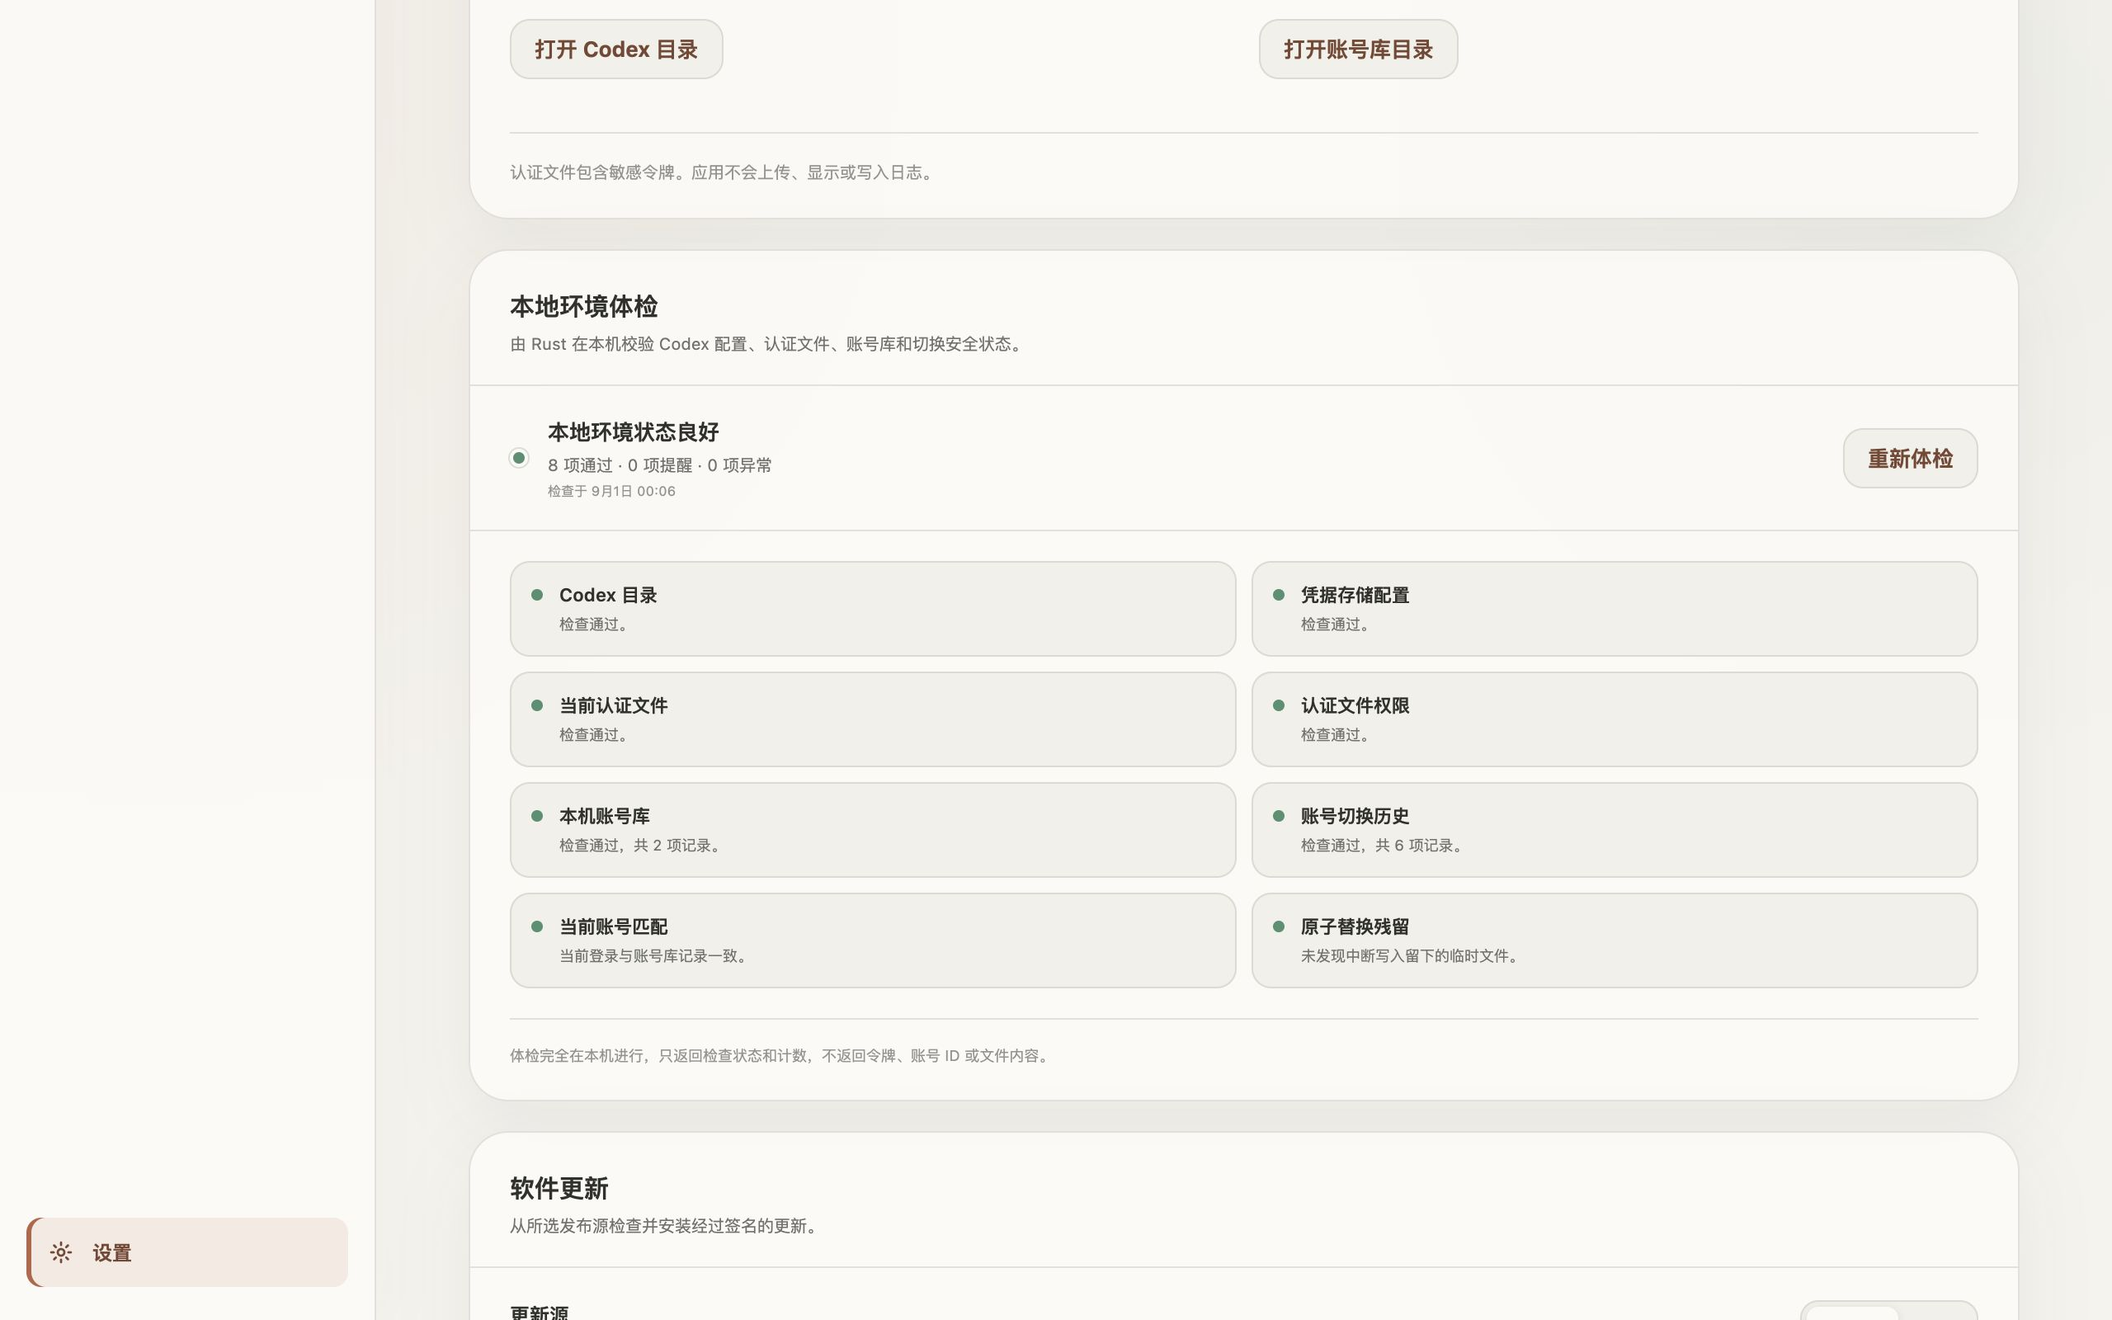
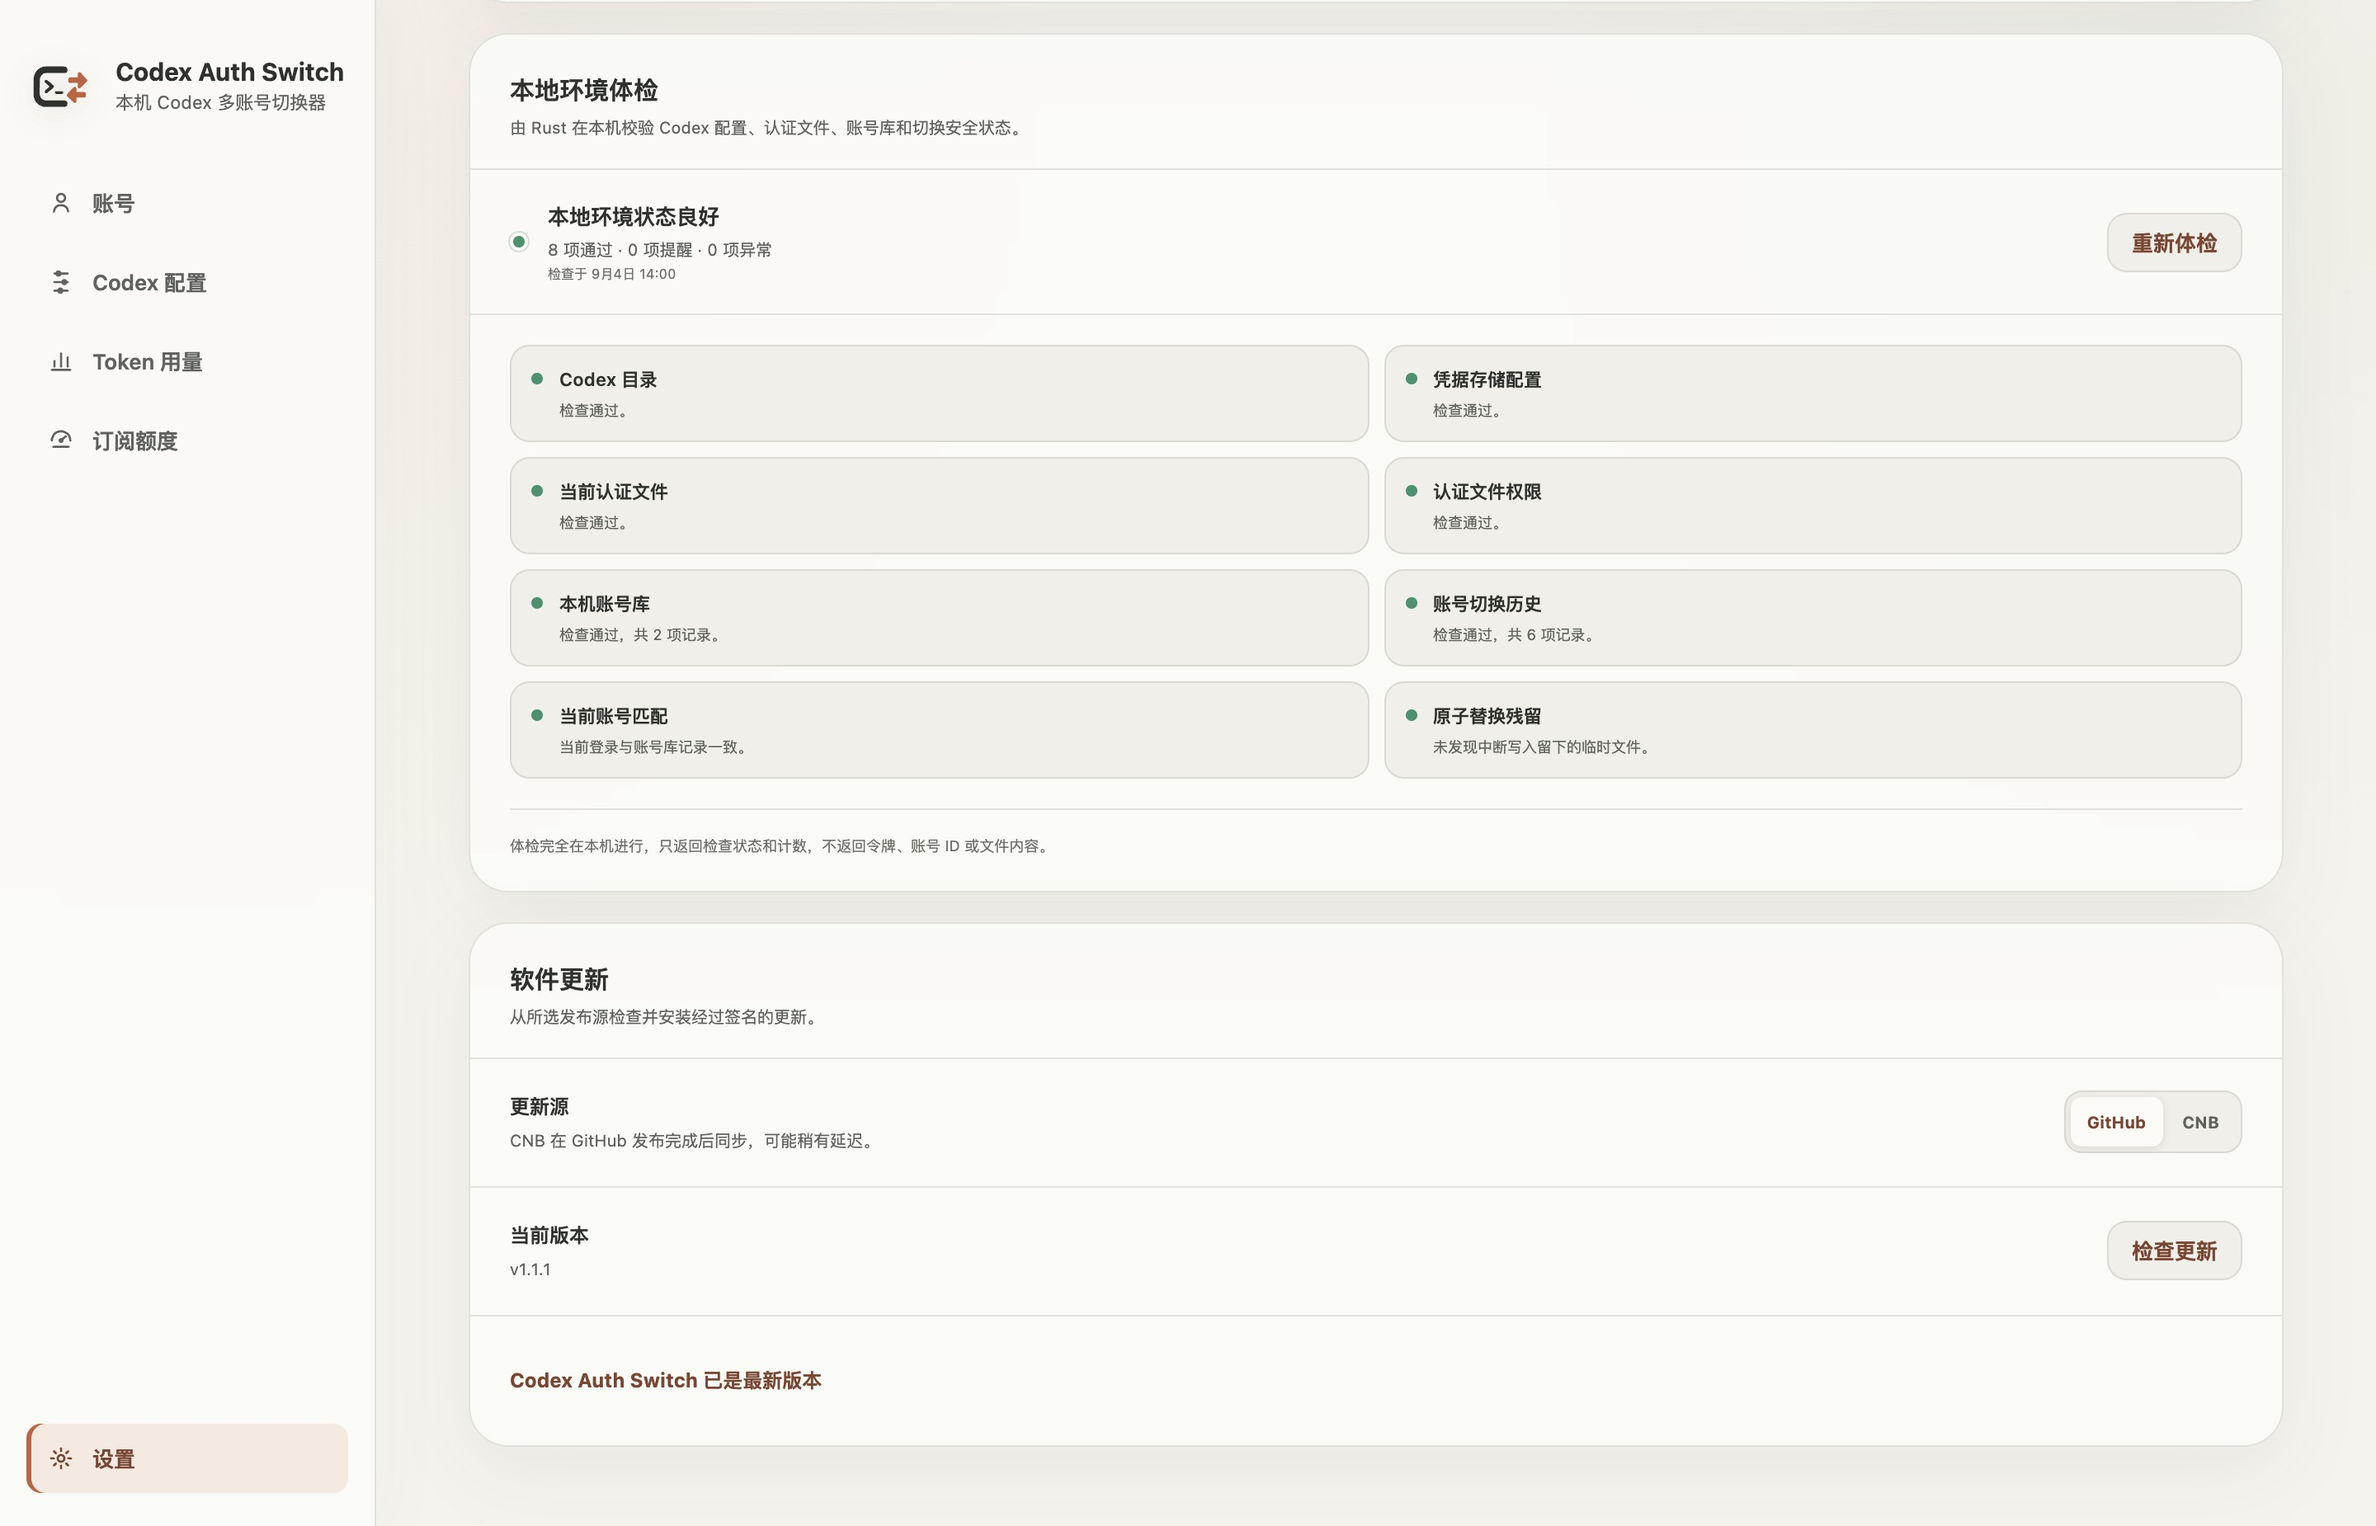
docs: 更新 1.1.1 使用说明与界面截图

diff --git a/README.en.md b/README.en.md
@@ -15,16 +15,20 @@
 <p align="center">
   <a href="https://github.com/Mintimate/codex-auth-switch/releases/latest">Download</a> ·
   <a href="#quick-start">Quick start</a> ·
+  <a href="#codex-configuration">Codex configuration</a> ·
   <a href="#security-boundaries">Security</a> ·
   <a href="#development">Development</a> ·
   <a href="https://github.com/Mintimate/codex-auth-switch/issues">Report an issue</a>
 </p>
 
-![Codex Auth Switch account page](docs/images/dashboard-light.jpg)
+<picture>
+  <source media="(prefers-color-scheme: dark)" srcset="./docs/images/dashboard-dark.jpg">
+  <img src="./docs/images/dashboard-light.jpg" alt="Codex Auth Switch 1.1.1: current login, switching flow, and local account vault">
+</picture>
 
-> Screenshots use built-in preview data and contain no real accounts, tokens, or authentication data.
+> Screenshots show the Chinese interface with built-in preview data from 1.1.1. They contain no real accounts, tokens, or authentication data.
 
-Codex Auth Switch saves and switches multiple Codex ChatGPT logins on one device. It also provides local Token usage, subscription quotas, and environment diagnostics. It does not proxy Codex requests, collect telemetry, or manage API keys, subscription billing, or workspace seats.
+Codex Auth Switch saves and switches multiple Codex ChatGPT logins on one device. It also provides Codex configuration editing, local Token usage, subscription quotas, and environment diagnostics. It does not proxy Codex requests, collect telemetry, or manage API keys, subscription billing, or workspace seats.
 
 > [!IMPORTANT]
 > This project is not affiliated with, sponsored by, or endorsed by OpenAI. Codex, ChatGPT, and OpenAI are trademarks of their respective owners.
@@ -33,16 +37,31 @@ Codex Auth Switch saves and switches multiple Codex ChatGPT logins on one device
 
 - Save, rename, and switch local accounts while preserving rotated tokens before each switch
 - Add an account through browser-based Device Code authorization without entering a password in the app
+- Configure credential storage, the 1M context preset, reasoning effort and summaries, response verbosity, and web search
 - Summarize local session Tokens for today, 7 days, and 30 days, split by account and model provider
 - Show quota windows, recovery timelines, 7-day Tokens, and a one-year activity heatmap
+- Refresh usage and quotas independently when opening their pages, with an option to load data manually
 - Transfer Auth once through a QR code or clipboard, with legacy CAS2 import compatibility
-- Run read-only diagnostics and use light/dark themes, Chinese/English UI, and signed updates
+- Run read-only diagnostics, hide emails with privacy mode, and use light/dark themes, Chinese/English UI, and signed updates from GitHub or CNB
 
 ## Interface Preview
 
-| Token usage                                                   | Subscription quotas                                                   |
-| ------------------------------------------------------------- | --------------------------------------------------------------------- |
-| ![Codex Auth Switch Token usage](docs/images/usage-light.jpg) | ![Codex Auth Switch subscription quotas](docs/images/quota-light.jpg) |
+| Codex configuration                                                                                                | Token usage                                                                                                      |
+| ------------------------------------------------------------------------------------------------------------------ | ---------------------------------------------------------------------------------------------------------------- |
+| ![Codex configuration: credential storage, 1M context, model output, and web search](docs/images/config-light.jpg) | ![Token usage: local totals, daily trends, and attribution by account and provider](docs/images/usage-light.jpg) |
+
+| Subscription quotas                                                                                          | App settings                                                                                     |
+| ------------------------------------------------------------------------------------------------------------ | ------------------------------------------------------------------------------------------------ |
+| ![Subscription quotas: multiple windows, recovery timelines, and account usage](docs/images/quota-light.jpg) | ![App settings: language, privacy, theme, and automatic refresh](docs/images/settings-light.jpg) |
+
+<details>
+<summary>Diagnostics and one-time Auth transfer</summary>
+
+| Diagnostics                                                                 | One-time Auth transfer                                                                                                  |
+| --------------------------------------------------------------------------- | ----------------------------------------------------------------------------------------------------------------------- |
+| ![Read-only diagnostics and app updates](docs/images/diagnostics-light.jpg) | ![One-time Auth transfer dialog with a preview QR pattern containing no credentials](docs/images/auth-share-dialog.jpg) |
+
+</details>
 
 ## Download and Install
 
@@ -60,17 +79,17 @@ The macOS package uses an ad hoc signature, so first launch may require approval
 
 ### 1. Enable file-based credential storage
 
-Add the following to `CODEX_HOME/config.toml` (default: `~/.codex/config.toml`):
+Open **Codex config** in the sidebar and select **File** under **Credential storage**, or use **Enable file-based login management** when prompted on the account page. This sets the following in `CODEX_HOME/config.toml` (default: `~/.codex/config.toml`):
 
 ```toml
 cli_auth_credentials_store = "file"
 ```
 
-The app does not modify `keyring` or `auto`, and API Key authentication is never saved as a subscription account.
+The app does not change an existing storage mode automatically. Account management is unavailable when `auto` or `keyring` is selected, and API Key authentication is never saved as a subscription account.
 
 ### 2. Save or add an account
 
-Open the app to save the current Codex ChatGPT login, or select **Add account** and complete Device Code authorization in a browser.
+Open the app to save the current Codex ChatGPT login, or select **Add account**, choose a local name, and complete Device Code authorization in a browser. Successful authorization automatically saves and switches to the new account.
 
 ### 3. Switch accounts
 
@@ -79,6 +98,27 @@ Select **Switch to this account** in the local vault. The app validates the targ
 ### 4. Transfer to another device (optional)
 
 One-time Auth transfer supports QR codes and the clipboard. Stop Codex sessions on the sending device first; the receiver immediately refreshes and validates the account during import. For ongoing access on both devices, start a new OAuth authorization on the receiving device instead.
+
+## Codex Configuration
+
+The configuration page edits the local `config.toml`. Each selection updates only the corresponding supported fields, preserves other settings and comments, and displays the resulting values inline.
+
+| Setting            | Options                                                               |
+| ------------------ | --------------------------------------------------------------------- |
+| Credential storage | Default, file, auto, or keyring; account switching requires file mode |
+| Context window     | Codex defaults, or 1M context with a 900K auto-compaction threshold   |
+| Reasoning effort   | Default, minimal, low, medium, high, or extra high                    |
+| Reasoning summary  | Default, auto, concise, detailed, or off                              |
+| Response verbosity | Default, low, medium, or high                                         |
+| Web search         | Default, disabled, cached, indexed, or live                           |
+
+Selecting **Default** removes the corresponding fields so Codex can use its defaults. Existing values outside the presets appear as **Custom** and remain unchanged until you select a preset. Settings such as 1M are local configuration presets; support depends on the Codex version, model, and service in use.
+
+## Usage and Quotas
+
+**Token usage** aggregates local session metadata; **Subscription quotas** queries online account limits. The pages load independently, and opening the account page does not query subscription quotas. Disable **Refresh when opened** under **Settings → Usage and quotas** to load data manually with each page's button.
+
+When available, the quota page shows the plan, multiple quota windows, full-reset credits and expiry dates, account usage, and an activity heatmap. Not every account or data source returns all of these fields. Network errors can be retried manually; wait before retrying a rate-limited request.
 
 ## Security Boundaries
 
